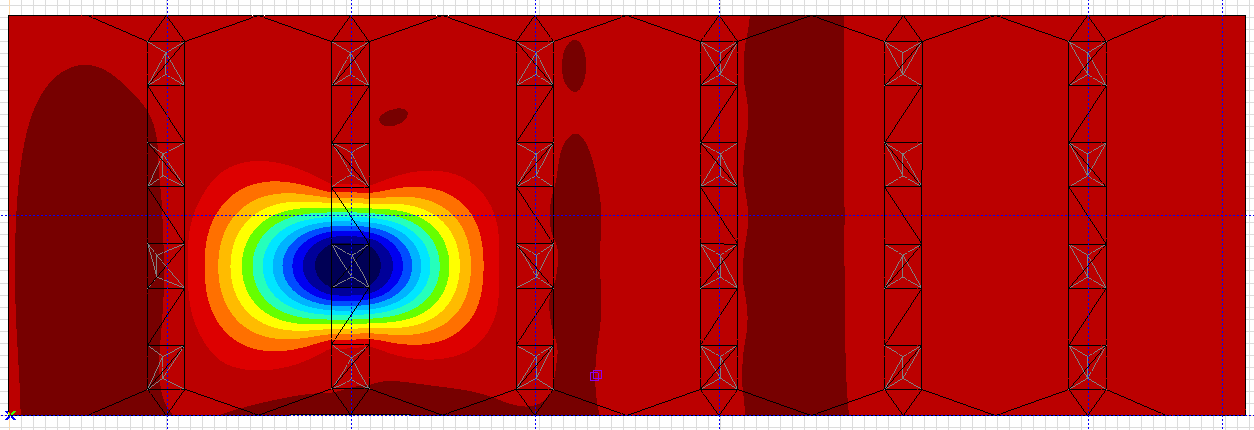
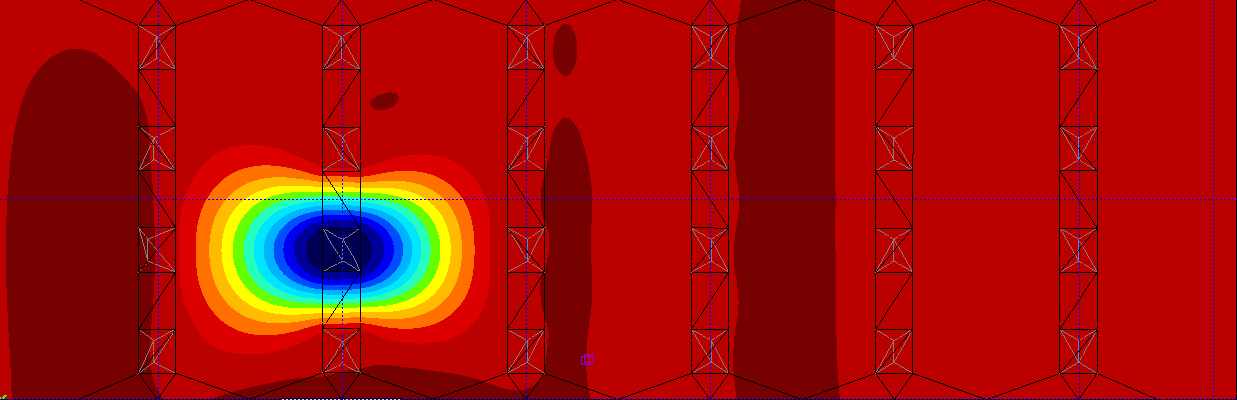
Pier displacement axis plots

Changed region(s): [[0.0, 0.0, 1.0, 1.0]]

diff --git a/code/make/plot/contour/__init__.py b/code/make/plot/contour/__init__.py
@@ -249,6 +249,9 @@ def piers_displaced(c: Config, pier_indices: List[int]):
                 sim_params=sim_params,
                 response_type=response_type,
                 sim_runner=OSRunner(c),
+                # 'Run = True' is required such that the 'disp_node' is attached
+                # to a pier.
+                run=True,
             )
 
             # Plot and save the image.
@@ -298,7 +301,8 @@ def piers_displaced(c: Config, pier_indices: List[int]):
                 ),
             )
             # Plot the load and min, max values.
-            row = axis_values[axi_values["name"] == f"{p}-{rt_str}"]
+            row = axis_values[axis_values["name"] == f"{p}-{rt_str}"]
+            print(row)
             amin, amax = float(row["min"]), float(row["max"])
             if response_type == ResponseType.Strain:
                 amax, amin = -amin * 1e6, -amax * 1e6
@@ -317,14 +321,17 @@ def piers_displaced(c: Config, pier_indices: List[int]):
                 )
             plt.legend()
             # Add the Axis colorbar.
-            plt.imshow(np.array([[amin, amax]]), cmap=cmap, extent=(0, 0, 0, 0))
+            plt.imshow(np.array([[amin, amax]]), cmap=get_cmap("jet"), extent=(0, 0, 0, 0))
             clb = plt.colorbar()
             clb.ax.set_title(unit_str)
             # Title and save.
-            plt.title(title)
+            plt.title(f"Pier displacement of 1 m")
             plt.xlabel("X position (mm)")
             plt.ylabel("Z position (mm)")
-            plt.savefig(save(f"{p}-axis-{rt_str}"))
+            plt.savefig(c.get_image_path(
+                "validation/pier-displacement",
+                f"{p}-axis-{rt_str}",
+            ))
             plt.close()
 
 
